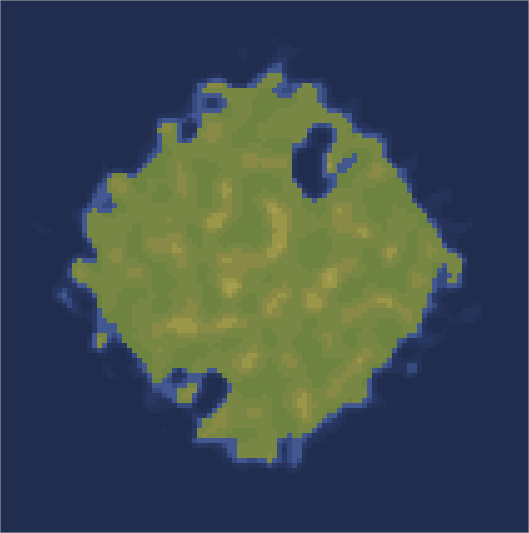
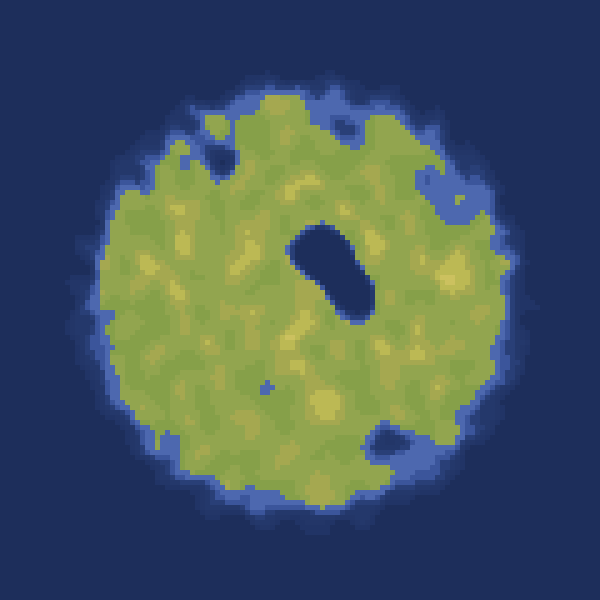
Fix island shape

diff --git a/lib/index.js b/lib/index.js
@@ -38,7 +38,6 @@ window.crusoe = module.exports = (function () {
     height: 100,
     noiseReduction: 10,
     seed: 0,
-    sharpness: 1,
     size: 1,
     elevation: 3,
     lakeSize: 3,
@@ -48,18 +47,20 @@ window.crusoe = module.exports = (function () {
   function generateMap (options) {
     options = Object.assign({}, defaultOptions, options)
 
-    var scale = options.noiseReduction
     var width = options.width
     var height = options.height
     var seed = options.seed
-    var sharpness = 4.5 * options.sharpness
-    var size = 2.5 - 2 * options.size
-    var curve = 50 / options.curve
+    var size = options.size - 1
+    var curve = options.curve * 2
     var elevation = -2 + options.elevation
     var lakeSize = options.lakeSize
+    var scale = options.noiseReduction
+    var scaleHalf = scale / 2
+    var scale2 = scale * 2
 
-    var islandW = width * 0.45
-    var islandH = height * 0.45
+    var islandW = width * 0.5
+    var islandH = height * 0.5
+    var diagonalHalf = Math.sqrt(width * width + height * height)
 
     noise.seed(seed)
 
@@ -69,9 +70,11 @@ window.crusoe = module.exports = (function () {
       data[x] = []
 
       for (var y = 0; y < height; y++) {
-        var islandFactor = (Math.cos((x - width / 2) / islandW * Math.PI) + Math.cos((y - height / 2) / islandH * Math.PI) - size) * sharpness
-        var terrainFactor = (noise.simplex2(x / scale, y / scale) + noise.perlin2(x / scale * 2, y / scale * 2))
-        var lakeFactor = islandFactor > 0 ? noise.perlin2(x / scale / 2, y / scale / 2) * lakeSize * islandFactor : 0
+        var dist = Math.sqrt(Math.pow((x - width / 2) / islandW, 2) + Math.pow((y - height / 2) / islandH, 2))
+        var islandFactor = (dist < diagonalHalf ? Math.cos(dist * Math.PI / 2) + size : -10) * 4 * curve
+
+        var terrainFactor = (noise.simplex2(x / scale, y / scale) + noise.perlin2(x / scaleHalf, y / scaleHalf)) / 3
+        var lakeFactor = islandFactor > 0 ? noise.perlin2(x / scale2, y / scale2) * lakeSize * islandFactor : 0
 
         var n = (islandFactor + terrainFactor + lakeFactor) / 3
 
@@ -79,7 +82,7 @@ window.crusoe = module.exports = (function () {
           data[x][y] = n
         } else {
           // Land
-          var climateFactor = ((noise.simplex2(x / scale, y / scale) + noise.perlin2(x / scale * 2, y / scale * 2)) / 2 + elevation) / 2 + islandFactor / curve
+          var climateFactor = ((noise.simplex2(x / scale, y / scale) + noise.perlin2(x / scale2, y / scale2)) / 2 + elevation) / 2 + islandFactor / (50 / curve)
           if (climateFactor < 0) {
             climateFactor = 0
           }

diff --git a/demo/index.html b/demo/index.html
@@ -83,11 +83,8 @@
     <button onclick="render()">Generate</button>
     <h1>Options</h1>
 
-    <p>Sharpness: <span id="options-sharpness">1</span></p>
-    <input type="range" min="0.1" max="3" step="0.1" value="1" onmousemove="setOption('sharpness', this.value)" />
-
-    <p>Size: <span id="options-size">1</span></p>
-    <input type="range" min="0.1" max="1" step="0.1" value="1" onmousemove="setOption('size', this.value)" />
+    <p>Size: <span id="options-size">0.5</span></p>
+    <input type="range" min="0.1" max="1" step="0.1" value="0.5" onmousemove="setOption('size', this.value)" />
 
     <p>Resolution: <span id="options-resolution">120 x 120</span></p>
     <input type="range" min="0.5" max="5" step="0.5" value="1" onmousemove="setOption('resolution', this.value)" />
@@ -121,7 +118,7 @@
 
     var options = {
       sharpness: 1,
-      size: 1,
+      size: 0.5,
       resolution: 1,
       noise: 10,
       elevation: 3,
@@ -134,8 +131,7 @@
         seed: Date.now(),
         width: 120 * options.resolution,
         height: 120 * options.resolution,
-        sharpness: options.sharpness,
-        size: options.size,
+        size: parseFloat(options.size, 10),
         noiseReduction: options.noise,
         elevation: options.elevation,
         lakeSize: options.lakeSize,

diff --git a/lib/README.md b/lib/README.md
@@ -58,12 +58,10 @@ Island data can be accessed by using the syntax: `map.data[x][y]`.
 * **height**: Height of the image data. Default: 100.
 * **noiseReduction**: Amount of noise reduction to be applied. Default: 10.
 * **seed**: Custom seed. Default: 0.
-* **sharpness**: Sharpness of the coastline. Default: 1.
 * **size**: Size of the island. Default 1.
 * **elevation**: Island elevation above sea level. Default 3.
 * **lakeSize**: Size of lakes on island. Default 3.
 * **curve**: Island curve. Default: 1.
-
 
 ### renderMap
 
